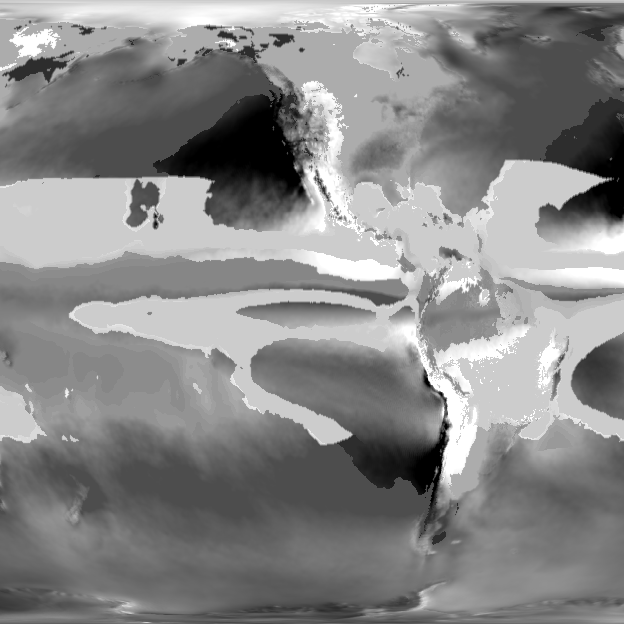
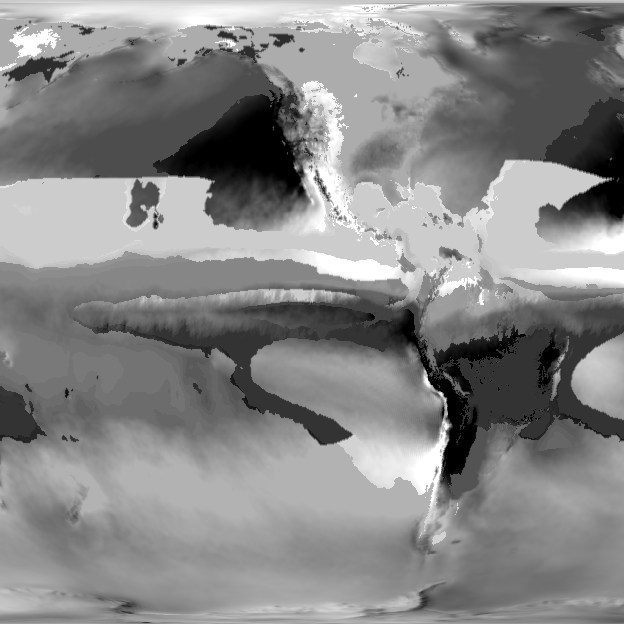
fix: rainVar

diff --git a/src/main/java/net/yazloysasha/tfcrealworld/world/noise/png/PNGRainVarianceNoise.java b/src/main/java/net/yazloysasha/tfcrealworld/world/noise/png/PNGRainVarianceNoise.java
@@ -1,24 +1,15 @@
 package net.yazloysasha.tfcrealworld.world.noise.png;
 
-import net.dries007.tfc.world.region.Units;
 import net.minecraft.util.Mth;
-import net.yazloysasha.tfcrealworld.util.projection.ProjectionManager;
-import net.yazloysasha.tfcrealworld.world.region.RegionCoords;
 
 /**
- * {@code rain_variance.png}: rainfall variance of the summer half of the
- * year, black = -1 (wet winter, dry summer), white = 1 (wet summer, dry
- * winter), mid gray = even rain. The same on both sides of the equator, so
- * the map has no jump there; TFC's variance follows the calendar, and takes
- * the sign of the hemisphere the map is read in. Near the equator that sign
- * fades through zero, as rain there comes evenly round the year: a sign
- * turned at the equator itself splits rain, groundwater and grass colour
- * along it.
+ * {@code rain_variance.png}: TFC's calendar rainfall variance, black = -1
+ * (wet January, dry July), white = 1 (dry January, wet July), mid gray = even
+ * rain. Read as it is in both hemispheres: on the real Earth it turns from
+ * one sign to the other where the tropical rain belt lies on average, a
+ * winding line near the equator, and the map keeps that line.
  */
 public class PNGRainVarianceNoise extends BaseClimatePNGNoise {
-
-  /** Latitude, either side of the equator, over which the sign fades. */
-  private static final double EQUATORIAL_BAND_DEGREES = 10.0;
 
   public PNGRainVarianceNoise(int horizontalScale, int verticalScale) {
     super(
@@ -34,21 +25,8 @@ public class PNGRainVarianceNoise extends BaseClimatePNGNoise {
     return -1.0 + (brightness / 255.0) * 2.0;
   }
 
-  /**
-   * The hemisphere of a region point, from its cell centre: 1 north, -1 south,
-   * in between near the equator.
-   */
-  public static double hemisphere(int gridZ) {
-    final double latitude = ProjectionManager.resolveLatitudeFromWorldZ(
-      RegionCoords.gridToBlock(gridZ) + Units.GRID_WIDTH_IN_BLOCK / 2
-    );
-    return Mth.clamp(latitude / EQUATORIAL_BAND_DEGREES, -1, 1);
-  }
-
-  /**
-   * TFC's calendar variance of a region point from the map's summer variance.
-   */
-  public static float calendarVariance(double summerVariance, int gridZ) {
-    return Mth.clamp((float) (hemisphere(gridZ) * summerVariance), -1, 1);
+  /** TFC's calendar variance of a region point from the map's. */
+  public static float calendarVariance(double mapVariance) {
+    return Mth.clamp((float) mapVariance, -1, 1);
   }
 }

diff --git a/src/main/java/net/yazloysasha/tfcrealworld/mixin/world/region/tfe/TfeClimateHelpersMixin.java b/src/main/java/net/yazloysasha/tfcrealworld/mixin/world/region/tfe/TfeClimateHelpersMixin.java
@@ -54,10 +54,7 @@ public class TfeClimateHelpersMixin {
     final PNGRainVarianceNoise variance = RainVarianceRegistry.get(generator);
     if (variance != null) {
       cir.setReturnValue(
-        PNGRainVarianceNoise.calendarVariance(
-          variance.noise(gridX, gridZ),
-          gridZ
-        )
+        PNGRainVarianceNoise.calendarVariance(variance.noise(gridX, gridZ))
       );
     }
   }

diff --git a/src/main/java/net/yazloysasha/tfcrealworld/world/region/MapRegionTasks.java b/src/main/java/net/yazloysasha/tfcrealworld/world/region/MapRegionTasks.java
@@ -370,7 +370,7 @@ public final class MapRegionTasks {
       if (variance != null) {
         backend.setRainfallVariance(
           point,
-          PNGRainVarianceNoise.calendarVariance(variance.noise(x, z), z)
+          PNGRainVarianceNoise.calendarVariance(variance.noise(x, z))
         );
       }
     }

diff --git a/public/text/CurseForge.md b/public/text/CurseForge.md
@@ -228,7 +228,7 @@ A grayscale PNG works too: gray level <code>N</code> is class <code>N</code> (bl
 <ul>
 <li><code>temperature.png</code> — annual mean temperature: <code>0</code> = −50 °C … <code>255</code> = 50 °C.</li>
 <li><code>rainfall.png</code> — annual rainfall: <code>0</code> = 0 mm … <code>255</code> = 500 mm.</li>
-<li><code>rain_variance.png</code> — rainfall seasonality by the local season, the same in both hemispheres: <code>0</code> = −1 (wet winter, dry summer) … <code>128</code> ≈ even rain … <code>255</code> = 1 (wet summer, dry winter).</li>
+<li><code>rain_variance.png</code> — rainfall seasonality by the calendar, as TFC reads it in both hemispheres: <code>0</code> = −1 (wet January, dry July) … <code>128</code> ≈ even rain … <code>255</code> = 1 (wet July, dry January).</li>
 </ul>
 
 TFC derives the climate zone from these values (its Köppen classification), so the maps alone decide deserts, tundra, monsoon forests and the rest.<br><br>

diff --git a/README.md b/README.md
@@ -211,7 +211,7 @@ A grayscale PNG works too: gray level `N` is class `N` (black is class `0`).
 
 - `temperature.png` — annual mean temperature: `0` = −50 °C … `255` = 50 °C.
 - `rainfall.png` — annual rainfall: `0` = 0 mm … `255` = 500 mm.
-- `rain_variance.png` — rainfall seasonality by the local season, the same in both hemispheres: `0` = −1 (wet winter, dry summer) … `128` ≈ even rain … `255` = 1 (wet summer, dry winter).
+- `rain_variance.png` — rainfall seasonality by the calendar, as TFC reads it in both hemispheres: `0` = −1 (wet January, dry July) … `128` ≈ even rain … `255` = 1 (wet July, dry January).
 
 TFC derives the climate zone from these values (its Köppen classification), so the maps alone decide deserts, tundra, monsoon forests and the rest.
 

diff --git a/public/text/Modrinth.md b/public/text/Modrinth.md
@@ -211,7 +211,7 @@ A grayscale PNG works too: gray level `N` is class `N` (black is class `0`).
 
 - `temperature.png` — annual mean temperature: `0` = −50 °C … `255` = 50 °C.
 - `rainfall.png` — annual rainfall: `0` = 0 mm … `255` = 500 mm.
-- `rain_variance.png` — rainfall seasonality by the local season, the same in both hemispheres: `0` = −1 (wet winter, dry summer) … `128` ≈ even rain … `255` = 1 (wet summer, dry winter).
+- `rain_variance.png` — rainfall seasonality by the calendar, as TFC reads it in both hemispheres: `0` = −1 (wet January, dry July) … `128` ≈ even rain … `255` = 1 (wet July, dry January).
 
 TFC derives the climate zone from these values (its Köppen classification), so the maps alone decide deserts, tundra, monsoon forests and the rest.
 
